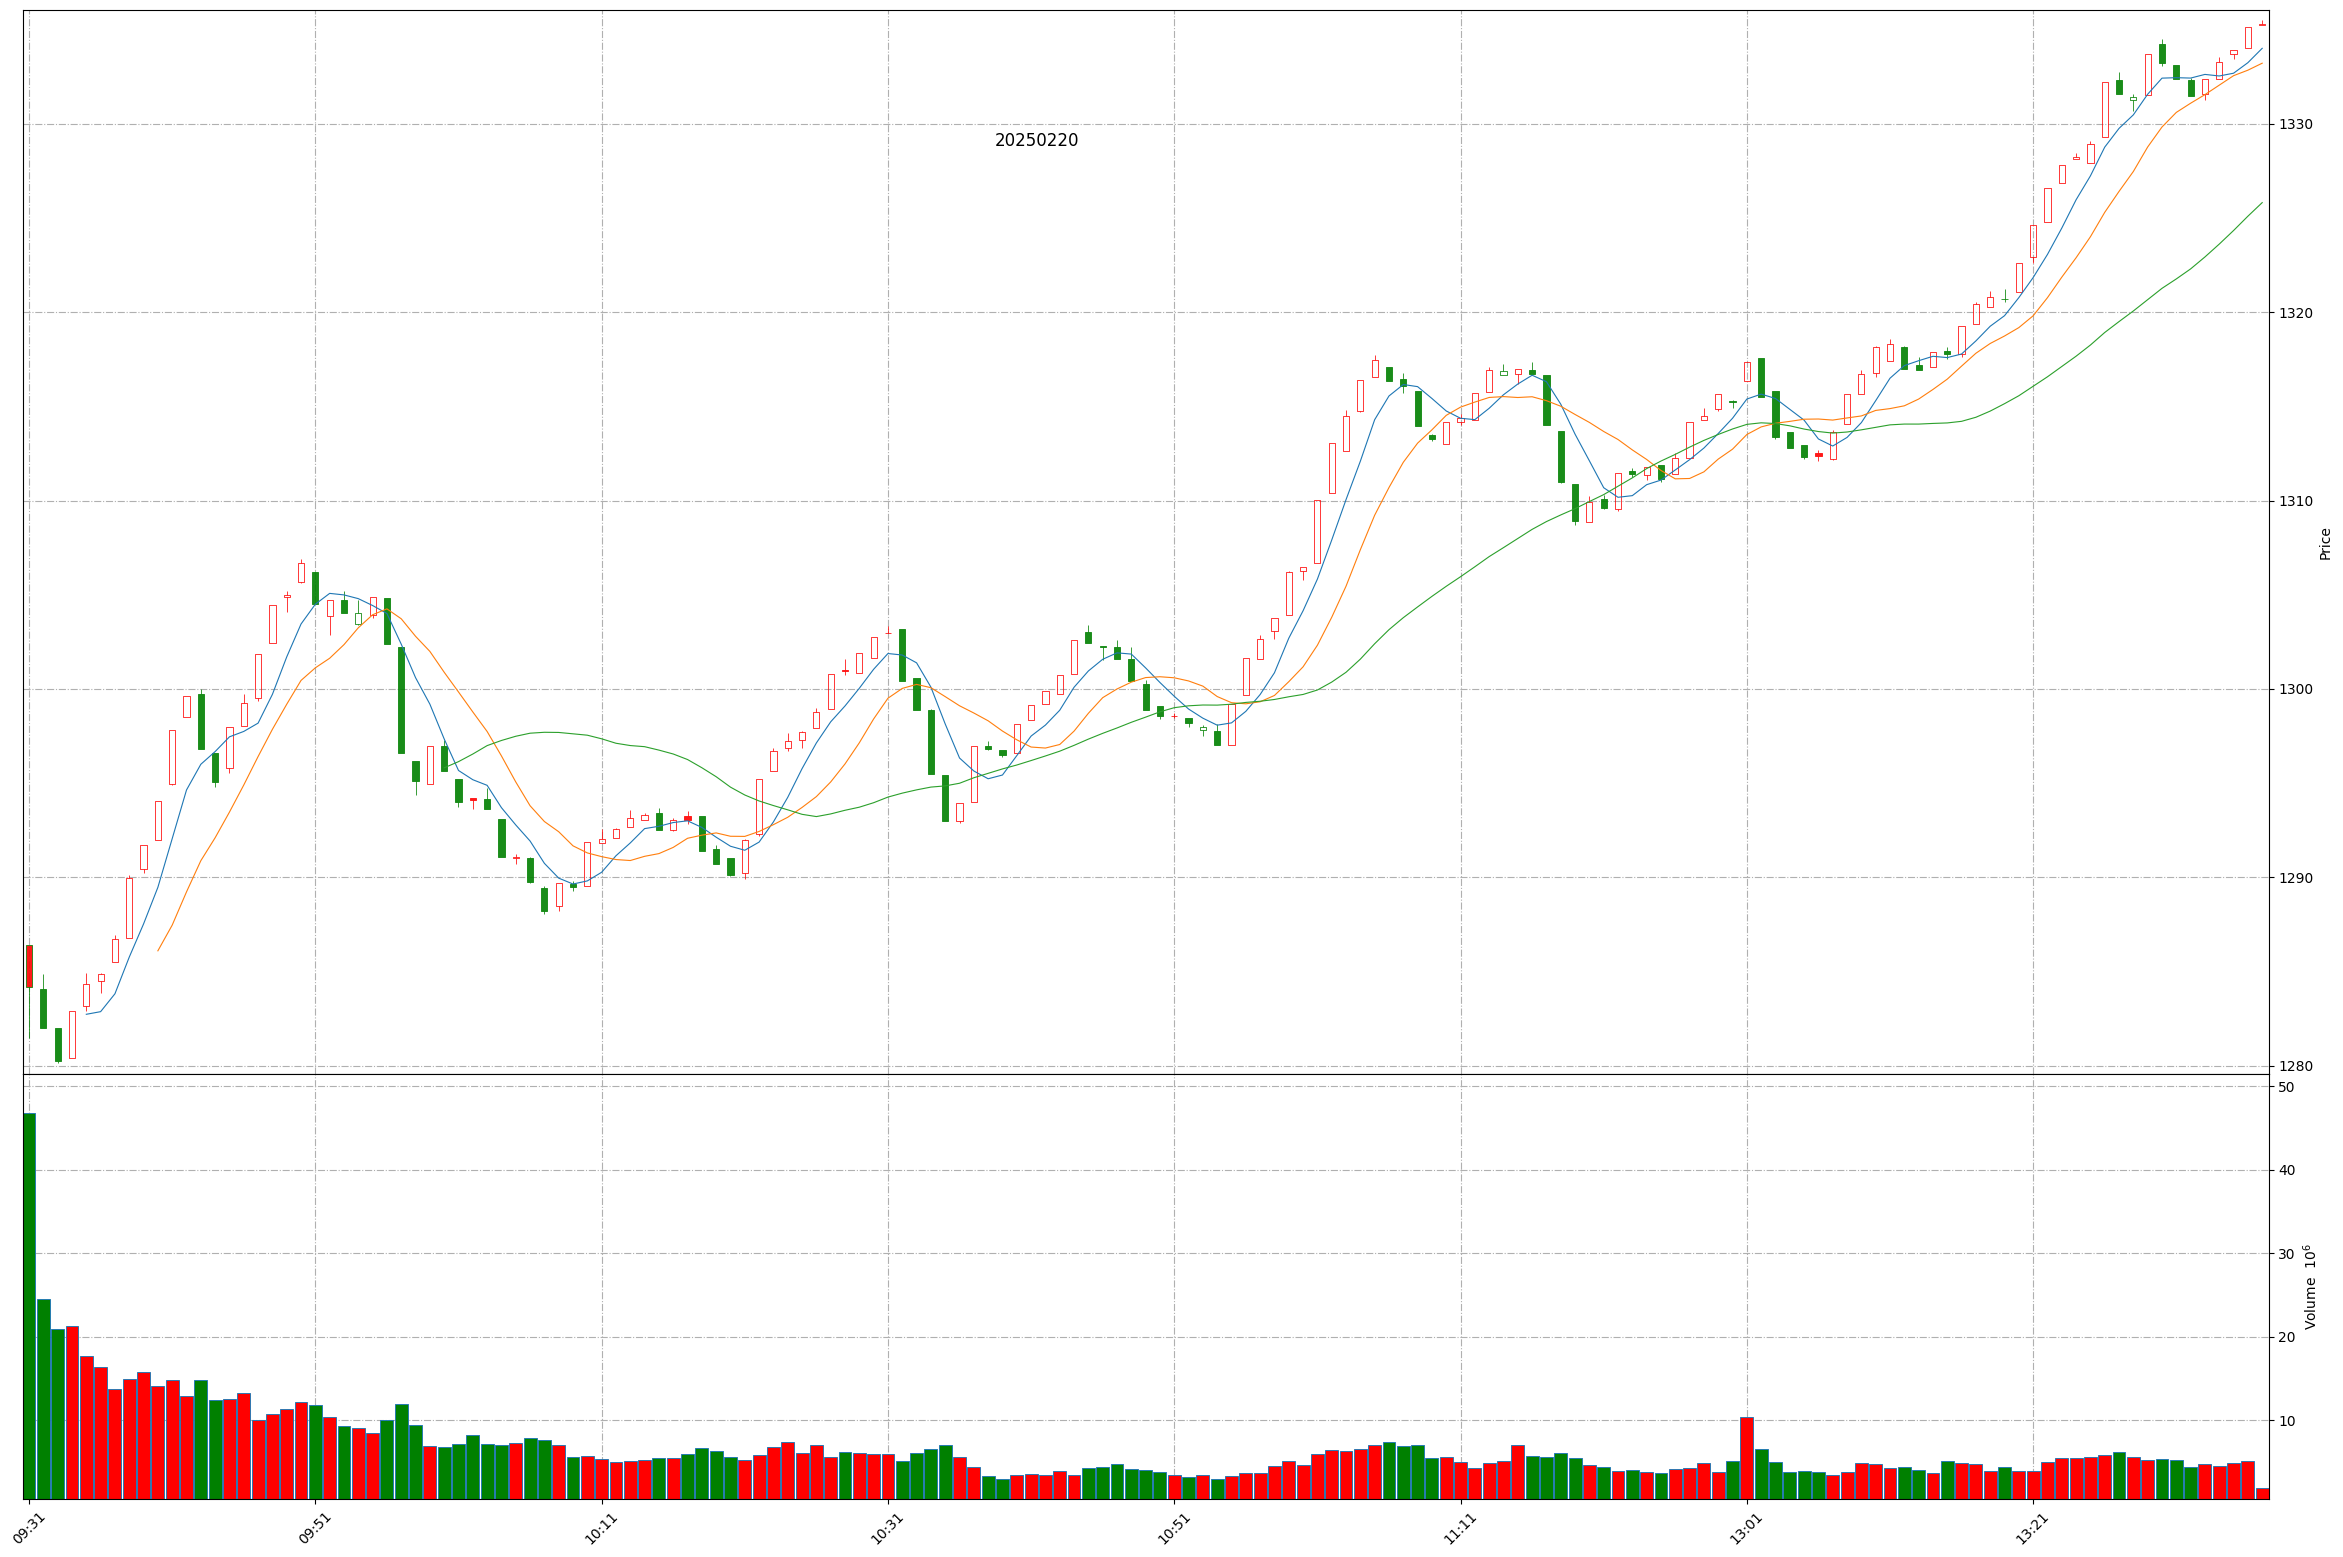
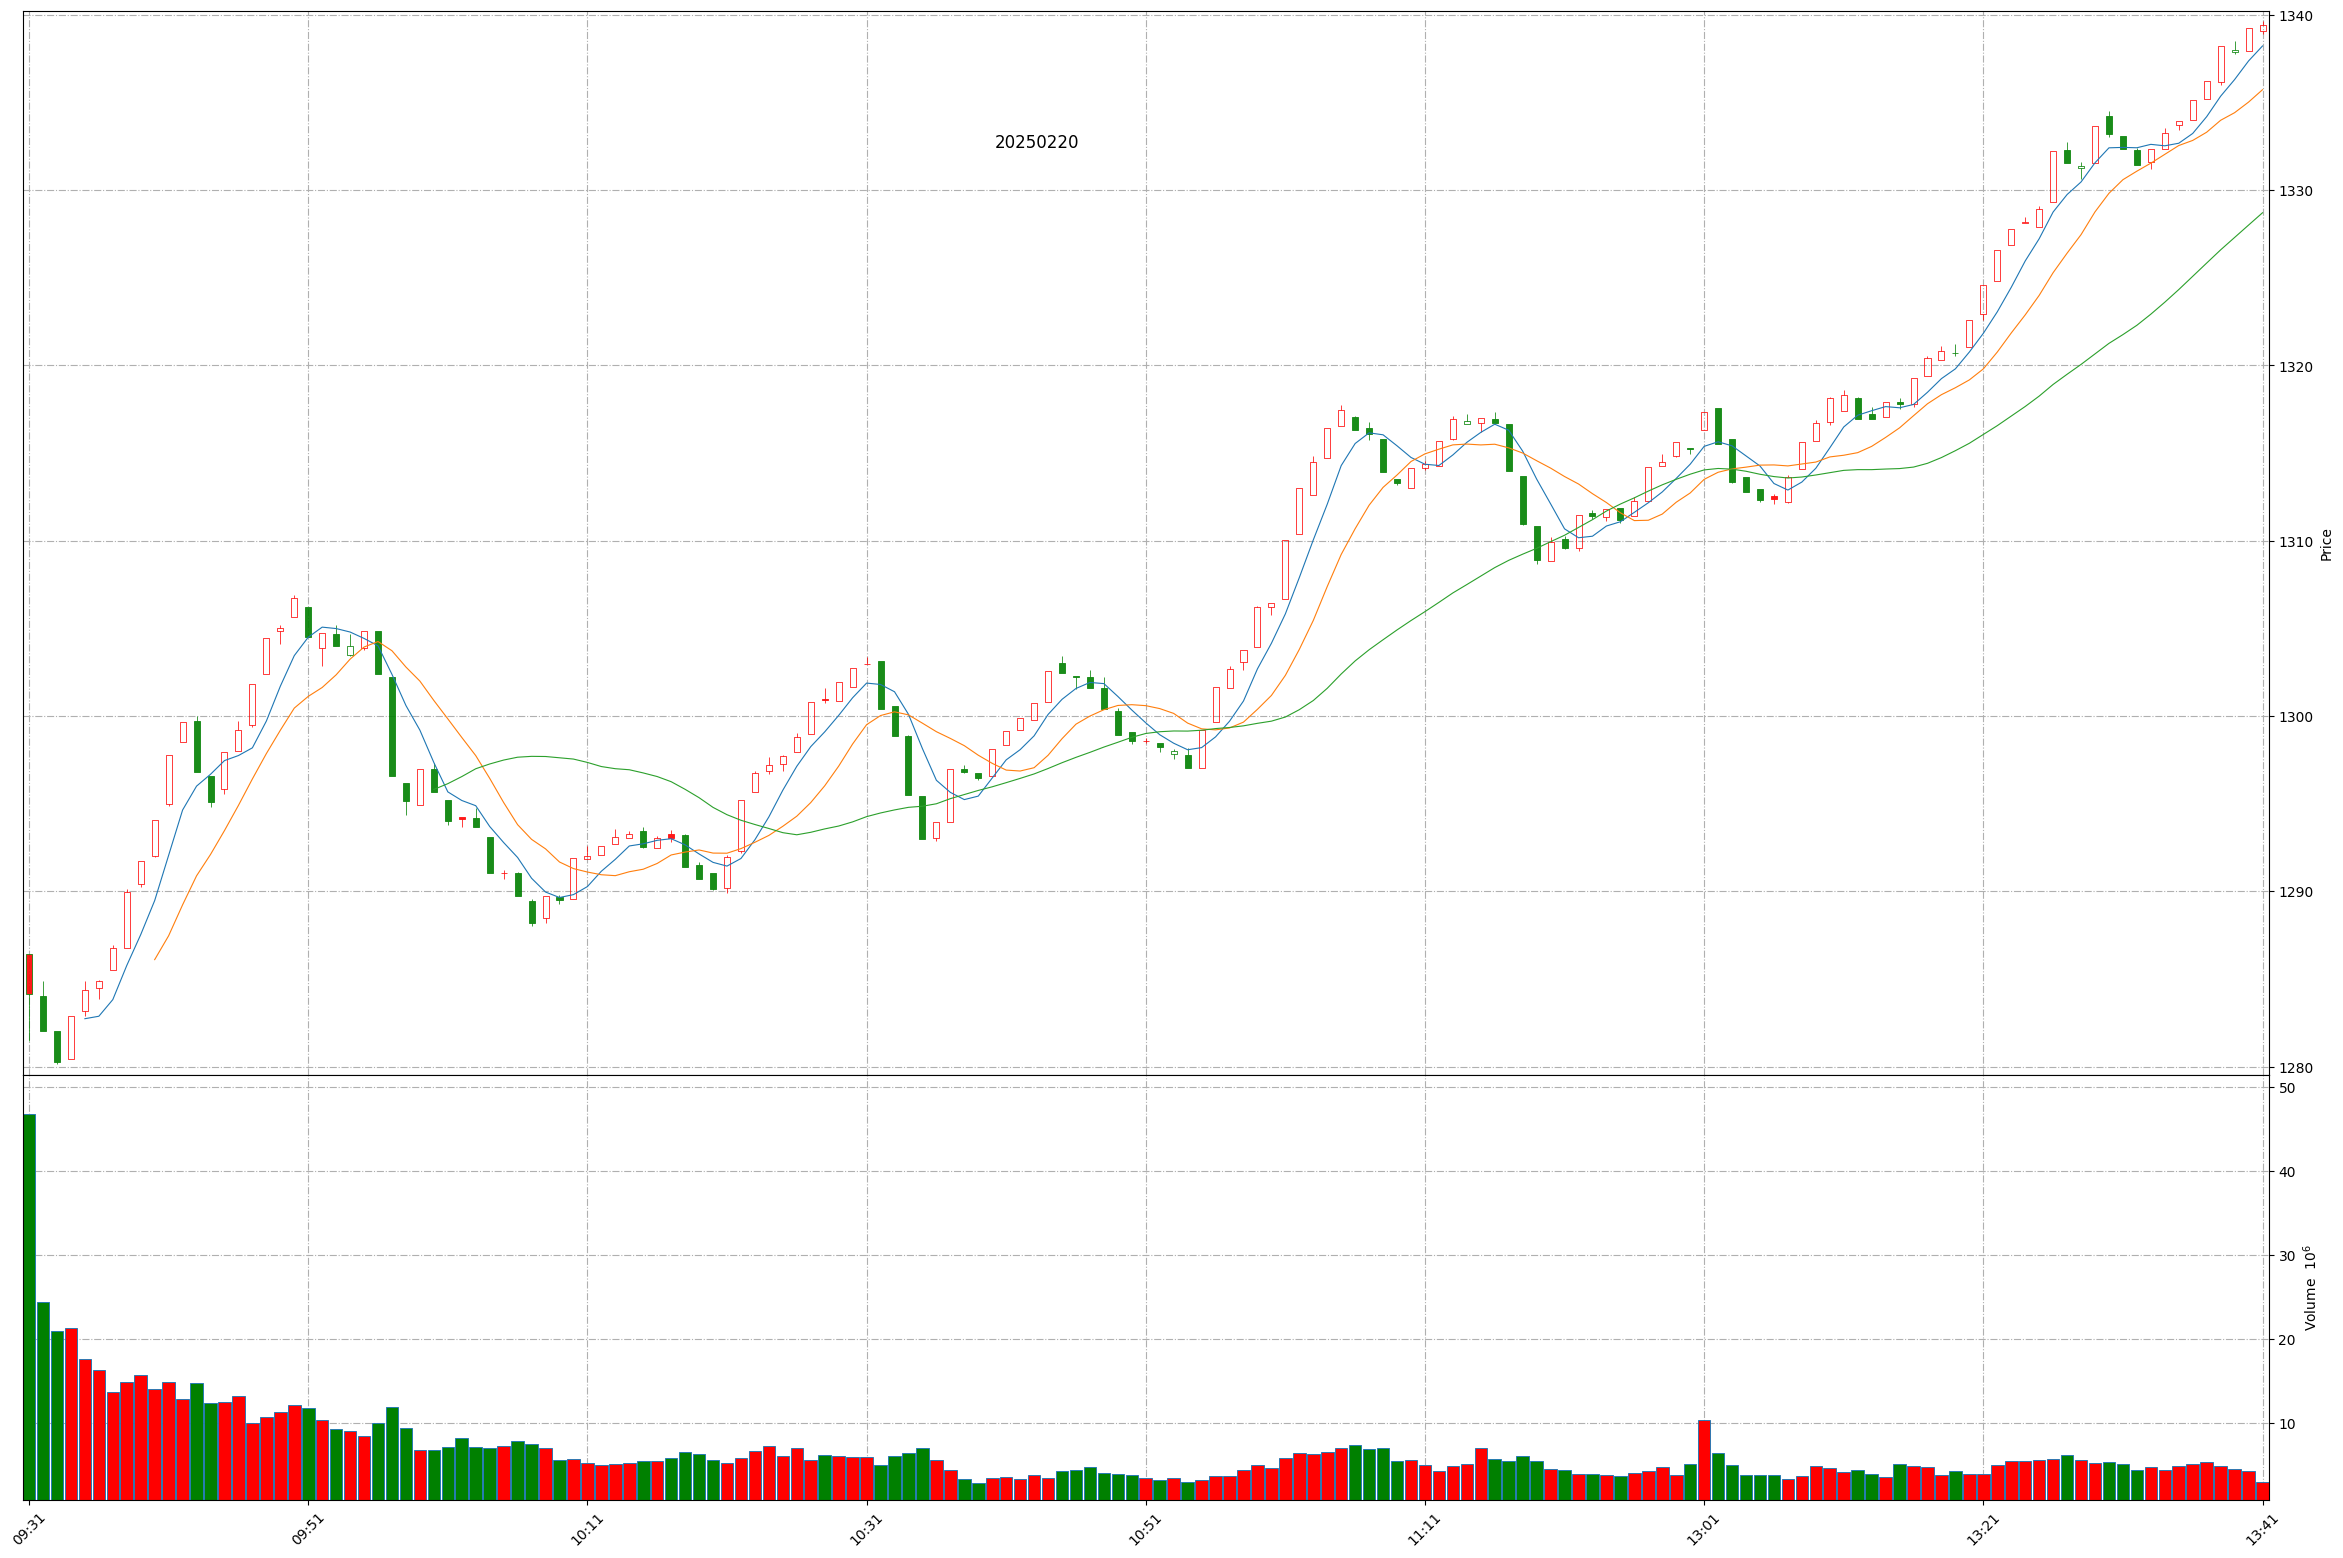
Github action update at 2025-02-20 13:40:58.

diff --git a/README.md b/README.md
@@ -1,11 +1,11 @@
 
 # Daily-A-share-market-quotes 每日 A 股指数（5min 更新）- 20250220
 
-### 上证指数 20250220 13:36
+### 上证指数 20250220 13:40
 ![](./fig/2025/2/20250220-sh000001.png)
 
-### 深证成指 20250220 13:36
+### 深证成指 20250220 13:40
 ![](./fig/2025/2/20250220-sz399001.png)
 
-### 北证50 20250220 13:36
+### 北证50 20250220 13:40
 ![](./fig/2025/2/20250220-bj899050.png)
